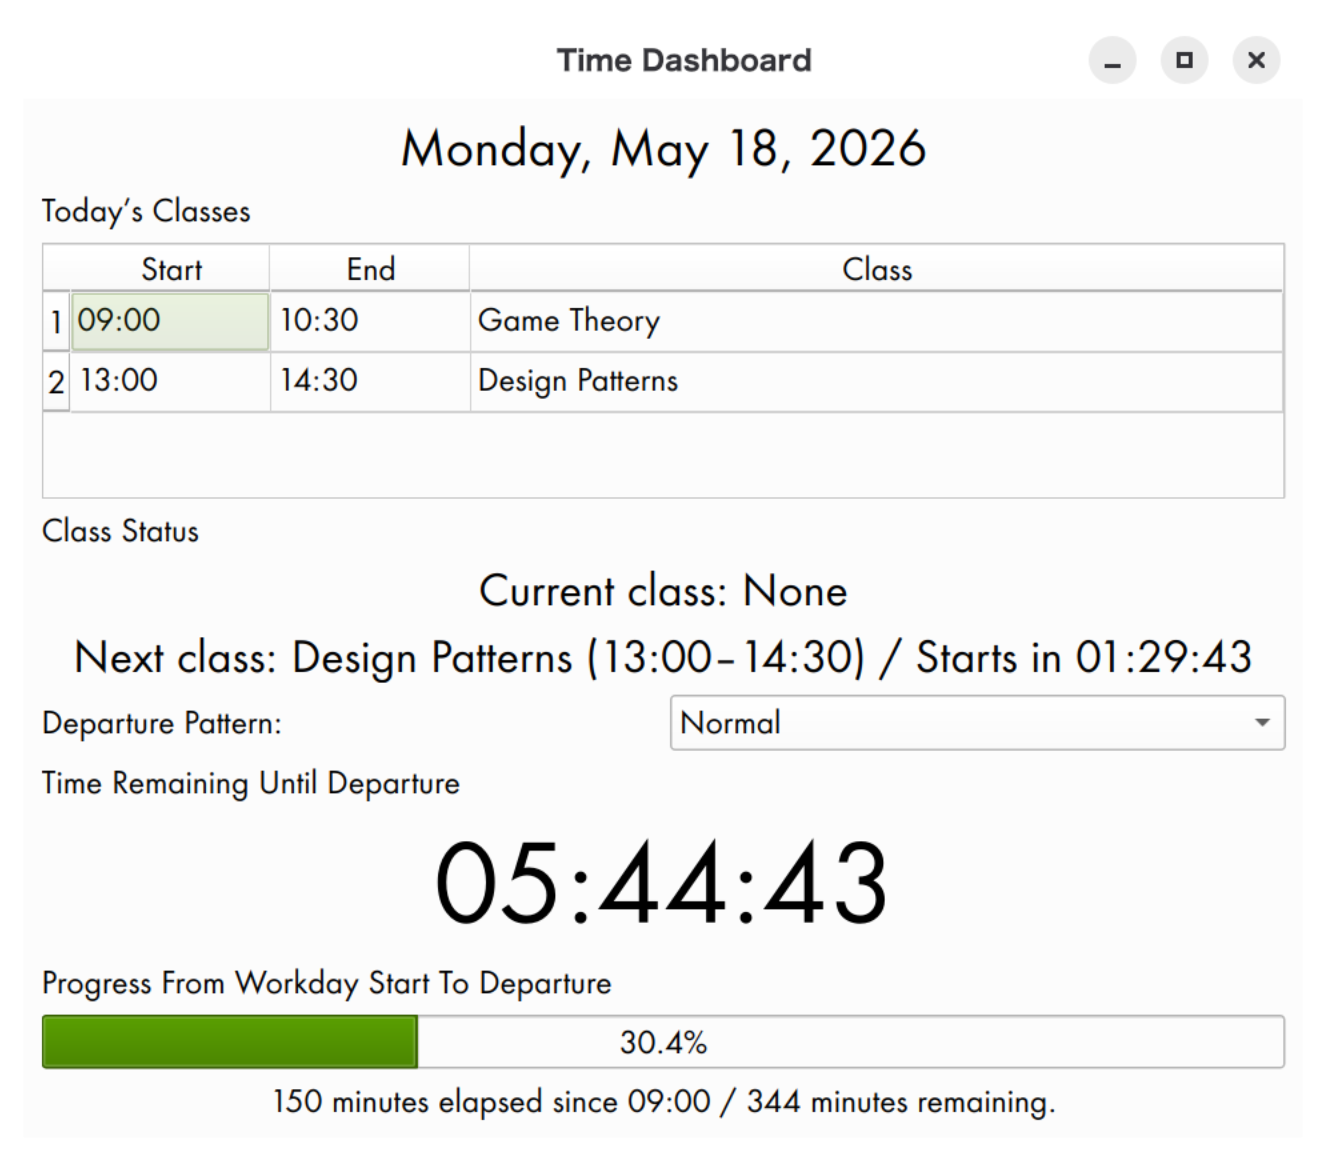
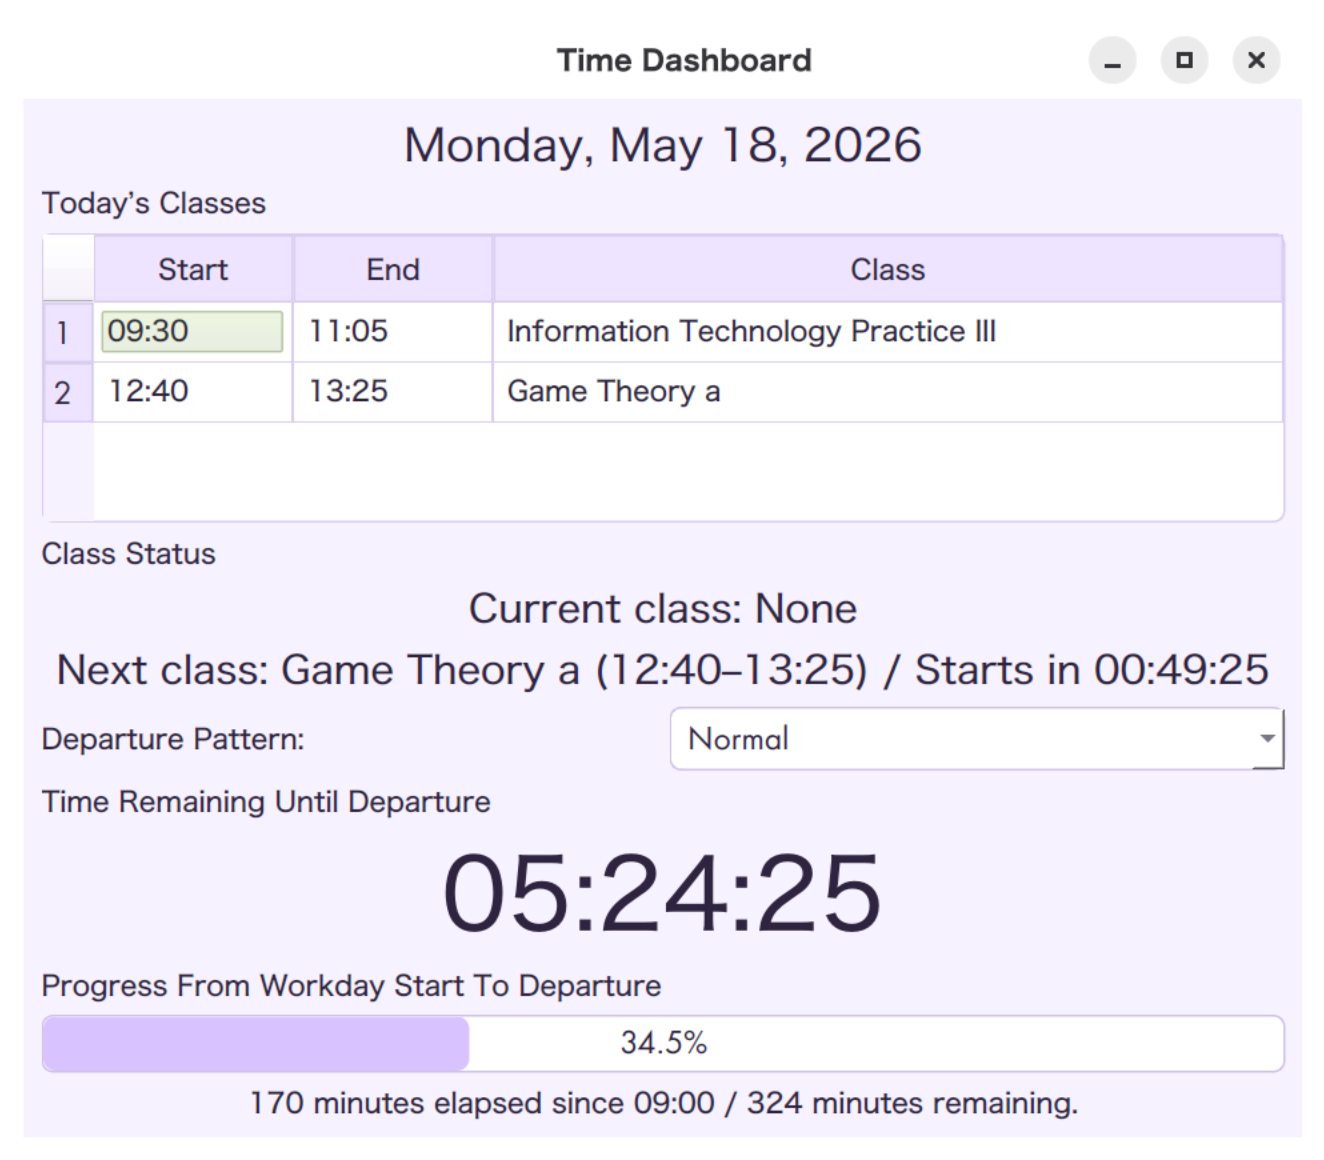
modified background color

diff --git a/time_dashboard.py b/time_dashboard.py
@@ -4,7 +4,6 @@ import yaml
 from dataclasses import dataclass
 from datetime import datetime, date, time, timedelta
 from pathlib import Path
-import os
 
 from PyQt6.QtCore import QTimer, Qt
 from PyQt6.QtGui import QFont, QFontInfo
@@ -79,6 +78,7 @@ class UIConfig:
     header_font_point_size: int
     class_status_font_point_size: int
     countdown_font_point_size: int
+    background_color: str
 
 
 @dataclass(frozen=True)
@@ -124,6 +124,7 @@ def load_config(path: Path) -> AppConfig:
             ui_raw.get("class_status_font_point_size", 16)
         ),
         countdown_font_point_size=int(ui_raw.get("countdown_font_point_size", 40)),
+        background_color=str(ui_raw.get("background_color", "#f7f2ff")),
     )
 
     classes: dict[str, list[ClassSlot]] = {}
@@ -183,6 +184,81 @@ def apply_application_font(app: QApplication, ui: UIConfig) -> None:
             f"Warning: requested font '{ui.font_family}', "
             f"but Qt selected '{actual_family}'."
         )
+
+
+def apply_application_theme(app: QApplication, ui: UIConfig) -> None:
+    background = ui.background_color
+
+    app.setStyleSheet(
+        f"""
+        QMainWindow {{
+            background-color: {background};
+        }}
+
+        QWidget {{
+            background-color: {background};
+            color: #2f2440;
+        }}
+
+        QLabel {{
+            background-color: transparent;
+            color: #2f2440;
+        }}
+
+        QTableWidget {{
+            background-color: #ffffff;
+            alternate-background-color: #fbf8ff;
+            gridline-color: #d8ccef;
+            border: 1px solid #d8ccef;
+            border-radius: 6px;
+            color: #2f2440;
+        }}
+
+        QTableWidget::item {{
+            padding: 4px;
+        }}
+
+        QTableWidget::item:selected {{
+            background-color: #d8c2ff;
+            color: #2f2440;
+        }}
+
+        QHeaderView::section {{
+            background-color: #eee4ff;
+            color: #2f2440;
+            border: 1px solid #d8ccef;
+            padding: 4px;
+        }}
+
+        QComboBox {{
+            background-color: #ffffff;
+            color: #2f2440;
+            border: 1px solid #cfc1e8;
+            border-radius: 6px;
+            padding: 4px 8px;
+        }}
+
+        QComboBox QAbstractItemView {{
+            background-color: #ffffff;
+            color: #2f2440;
+            selection-background-color: #d8c2ff;
+            selection-color: #2f2440;
+        }}
+
+        QProgressBar {{
+            background-color: #ffffff;
+            color: #2f2440;
+            border: 1px solid #cfc1e8;
+            border-radius: 6px;
+            text-align: center;
+        }}
+
+        QProgressBar::chunk {{
+            background-color: #d8c2ff;
+            border-radius: 6px;
+        }}
+        """
+    )
 
 
 class TimeDashboard(QMainWindow):
@@ -440,12 +516,13 @@ class TimeDashboard(QMainWindow):
 
 
 def main() -> None:
-    config_file = "time_dashboard.yaml"
-    config_path = Path(os.path.join(os.environ["HOME"], config_file))
+    config_path = Path.home() / "time_dashboard.yaml"
     config = load_config(config_path)
 
     app = QApplication(sys.argv)
+
     apply_application_font(app, config.ui)
+    apply_application_theme(app, config.ui)
 
     window = TimeDashboard(config)
     window.show()

diff --git a/time_dashboard_editor.py b/time_dashboard_editor.py
@@ -8,9 +8,10 @@ from typing import Any
 
 import yaml
 from PyQt6.QtCore import QTime, Qt
-from PyQt6.QtGui import QFont
+from PyQt6.QtGui import QColor, QFont
 from PyQt6.QtWidgets import (
     QApplication,
+    QColorDialog,
     QComboBox,
     QFontComboBox,
     QFormLayout,
@@ -53,6 +54,7 @@ WEEKDAY_LABELS = [
 ]
 
 KEY_PATTERN = re.compile(r"^[A-Za-z0-9_-]+$")
+HEX_COLOR_PATTERN = re.compile(r"^#[0-9A-Fa-f]{6}$")
 
 
 def default_config() -> dict[str, Any]:
@@ -64,6 +66,7 @@ def default_config() -> dict[str, Any]:
             "header_font_point_size": 18,
             "class_status_font_point_size": 16,
             "countdown_font_point_size": 40,
+            "background_color": "#f7f2ff",
         },
         "classes": {
             "monday": [
@@ -139,6 +142,12 @@ def table_time(table: QTableWidget, row: int, col: int) -> str:
     return "00:00"
 
 
+def is_start_before_end(start: str, end: str) -> bool:
+    start_qt = parse_qtime(start)
+    end_qt = parse_qtime(end)
+    return start_qt.msecsTo(end_qt) > 0
+
+
 class TimeDashboardConfigEditor(QMainWindow):
     def __init__(self, config_path: Path):
         super().__init__()
@@ -156,7 +165,7 @@ class TimeDashboardConfigEditor(QMainWindow):
         self.current_weekday = "monday"
 
         self.setWindowTitle("Time Dashboard Config Editor")
-        self.resize(780, 620)
+        self.resize(820, 640)
 
         self.tabs = QTabWidget()
 
@@ -265,16 +274,29 @@ class TimeDashboardConfigEditor(QMainWindow):
         self.countdown_font_size_spin = QSpinBox()
         self.countdown_font_size_spin.setRange(8, 160)
 
+        self.background_color_edit = QLineEdit()
+        self.background_color_edit.setPlaceholderText("#f7f2ff")
+
+        choose_color_button = QPushButton("Choose Color")
+        choose_color_button.clicked.connect(self.choose_background_color)
+
+        color_row = QHBoxLayout()
+        color_row.addWidget(self.background_color_edit)
+        color_row.addWidget(choose_color_button)
+
         form.addRow("Workday Start:", self.workday_start_edit)
         form.addRow("Font Family:", font_row)
         form.addRow("Base Font Size:", self.font_point_size_spin)
         form.addRow("Header Font Size:", self.header_font_size_spin)
         form.addRow("Class Status Font Size:", self.class_status_font_size_spin)
         form.addRow("Countdown Font Size:", self.countdown_font_size_spin)
+        form.addRow("Background Color:", color_row)
 
         note = QLabel(
             "Font family should match a font name recognized by Qt/fontconfig. "
-            "On Linux, you can check names with fc-list or fc-match."
+            "On Linux, you can check names with fc-list or fc-match.\n\n"
+            "Background color should be a hex RGB value such as #f7f2ff. "
+            "Use a very light color for better readability."
         )
         note.setWordWrap(True)
 
@@ -306,9 +328,27 @@ class TimeDashboardConfigEditor(QMainWindow):
         self.countdown_font_size_spin.setValue(
             int(ui.get("countdown_font_point_size", 40))
         )
+        self.background_color_edit.setText(
+            str(ui.get("background_color", "#f7f2ff"))
+        )
 
     def copy_selected_font_name(self) -> None:
         self.font_family_edit.setText(self.font_combo.currentFont().family())
+
+    def choose_background_color(self) -> None:
+        current = self.background_color_edit.text().strip()
+
+        if not HEX_COLOR_PATTERN.match(current):
+            current = "#f7f2ff"
+
+        color = QColorDialog.getColor(
+            QColor(current),
+            self,
+            "Select Background Color",
+        )
+
+        if color.isValid():
+            self.background_color_edit.setText(color.name())
 
     # ------------------------------------------------------------------
     # Classes tab
@@ -391,7 +431,10 @@ class TimeDashboardConfigEditor(QMainWindow):
         self.class_table.setItem(row, 2, QTableWidgetItem(title))
 
     def remove_selected_class_rows(self) -> None:
-        rows = sorted({idx.row() for idx in self.class_table.selectedIndexes()}, reverse=True)
+        rows = sorted(
+            {idx.row() for idx in self.class_table.selectedIndexes()},
+            reverse=True,
+        )
 
         for row in rows:
             self.class_table.removeRow(row)
@@ -413,13 +456,10 @@ class TimeDashboardConfigEditor(QMainWindow):
                         f"Class title is empty in {self.current_weekday}, row {row + 1}."
                     )
 
-                start_qt = parse_qtime(start)
-                end_qt = parse_qtime(end)
-
-                if start_qt >= end_qt:
+                if not is_start_before_end(start, end):
                     raise ValueError(
                         f"Invalid class time in {self.current_weekday}, row {row + 1}: "
-                        f"start time must be earlier than end time."
+                        "start time must be earlier than end time."
                     )
 
             rows.append({"title": title, "start": start, "end": end})
@@ -508,6 +548,7 @@ class TimeDashboardConfigEditor(QMainWindow):
         }
 
         base = "new_pattern"
+
         if base not in existing:
             return base
 
@@ -519,7 +560,8 @@ class TimeDashboardConfigEditor(QMainWindow):
 
     def remove_selected_departure_rows(self) -> None:
         rows = sorted(
-            {idx.row() for idx in self.departure_table.selectedIndexes()}, reverse=True
+            {idx.row() for idx in self.departure_table.selectedIndexes()},
+            reverse=True,
         )
 
         for row in rows:
@@ -546,9 +588,7 @@ class TimeDashboardConfigEditor(QMainWindow):
                 raise ValueError(f"Duplicate departure pattern key: {key}")
 
             if not label:
-                raise ValueError(
-                    f"Departure pattern label is empty for key '{key}'."
-                )
+                raise ValueError(f"Departure pattern label is empty for key '{key}'.")
 
             patterns[key] = {"label": label, "time": time_value}
 
@@ -563,6 +603,13 @@ class TimeDashboardConfigEditor(QMainWindow):
 
     def build_config(self) -> dict[str, Any]:
         self.store_current_weekday_table()
+
+        background_color = self.background_color_edit.text().strip()
+
+        if not HEX_COLOR_PATTERN.match(background_color):
+            raise ValueError(
+                "Invalid background color. Use a hex RGB value such as #f7f2ff."
+            )
 
         classes: dict[str, list[dict[str, str]]] = {}
 
@@ -580,6 +627,7 @@ class TimeDashboardConfigEditor(QMainWindow):
                 "header_font_point_size": self.header_font_size_spin.value(),
                 "class_status_font_point_size": self.class_status_font_size_spin.value(),
                 "countdown_font_point_size": self.countdown_font_size_spin.value(),
+                "background_color": background_color,
             },
             "classes": classes,
             "departure_patterns": self.read_departure_patterns(),
@@ -596,10 +644,7 @@ class TimeDashboardConfigEditor(QMainWindow):
             if not title:
                 raise ValueError(f"Class title is empty in {weekday}, row {i}.")
 
-            start_qt = parse_qtime(start)
-            end_qt = parse_qtime(end)
-
-            if start_qt >= end_qt:
+            if not is_start_before_end(start, end):
                 raise ValueError(
                     f"Invalid class time in {weekday}, row {i}: "
                     "start time must be earlier than end time."